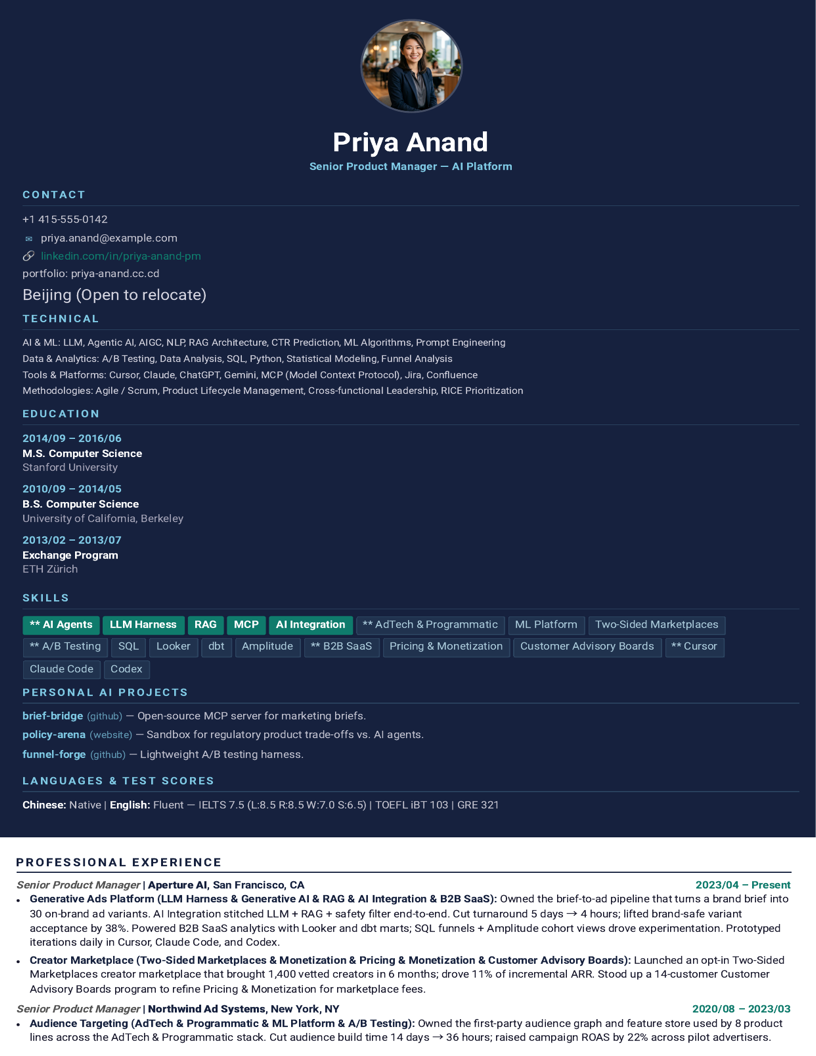
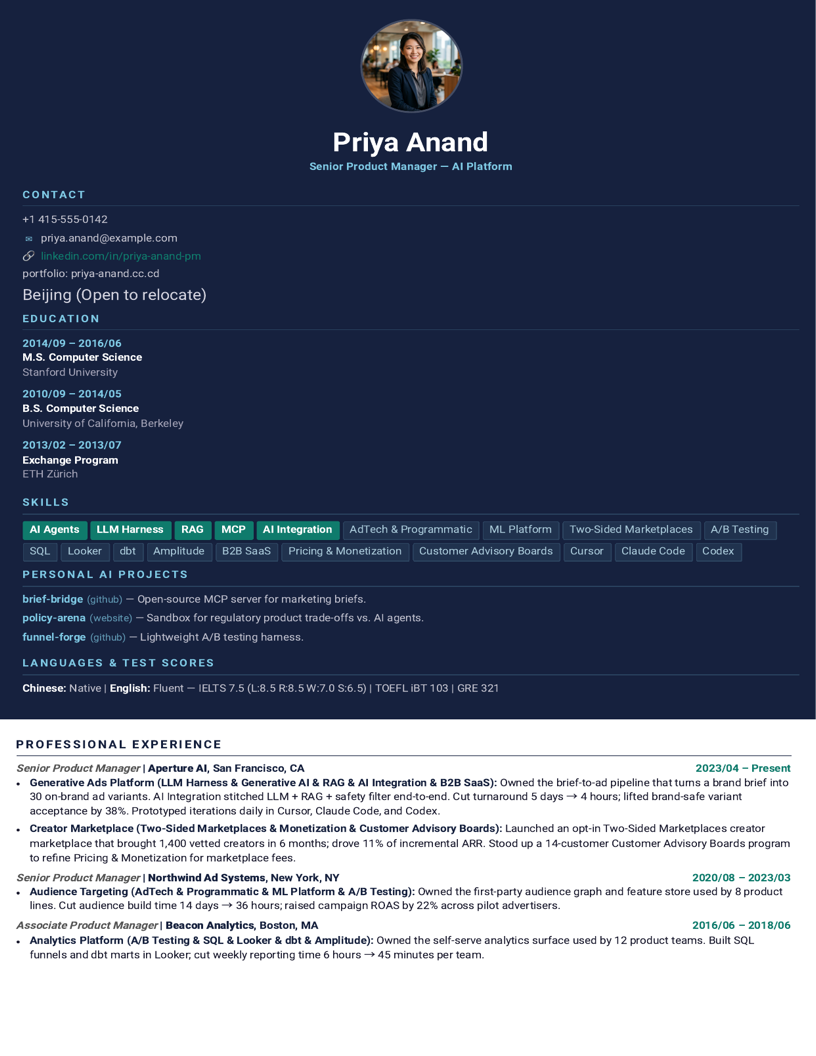
fix(snapshots): regen v3.0 premium-headshot, rename gallery label
- public/images/templates/3.png: regen via resume-pro v3.0 with the
  full candidate content (Contact, Education, Skills, Personal AI
  Projects, Languages & Test Scores in the sidebar; 3 experience
  roles in the main column). Removed the hardcoded 'Technical' /
  'Languages & Test Scores' / 'Training & Certifications' defaults
  that the renderer was failing to decompose (its parent lookup
  was class='section', but the template uses class='sb-section').
  Total 105% / sidebar 103% — within the skill's 96–105% band.

- src/app/dashboard/resume/page.tsx: 'Synthesis Protocols' ->
  'Resume Templates' and 'N Layouts' -> 'N templates'.

- scripts/snapshots/Senior_PM_Generic_v3.0.md: contact line kept
  single-line (validator requirement), portfolio appended as a
  separate contact-item, Beacon Analytics role now has a real
  bullet, skills section uses plain 'Category: items' form (the
  skill's parser regex can't strip '**' from a '**Category:**'
  prefix).

- scripts/snapshots/fake-pm-profile/Professional Experience 2026.md:
  added the '45 minutes' metric for Beacon Analytics so the
  metric-grounding check passes.

- /private/tmp/resume-pro-snap/renderer.py: also decompose
  sb-section parents (one-line change) so the renderer can clear
  hardcoded template text in any template.

Changed region(s): [[0.0, 0.2812, 1.0, 1.0]]

diff --git a/src/app/dashboard/resume/page.tsx b/src/app/dashboard/resume/page.tsx
@@ -255,10 +255,10 @@ function ResumePageContent() {
         <div className="space-y-8 pt-8 max-w-6xl mx-auto border-t border-surface-200/50 mt-12">
           <div className="flex items-center justify-between">
             <h3 className="text-[10px] font-bold text-surface-400 uppercase tracking-widest">
-              Synthesis Protocols
+              Resume Templates
             </h3>
             <div className="px-3 py-1 rounded-full bg-white border border-surface-200/50 text-[10px] font-bold text-brand-900 shadow-sm">
-              {TEMPLATE_CONFIGS.length} Layouts
+              {TEMPLATE_CONFIGS.length} templates
             </div>
           </div>
           

diff --git a/scripts/snapshots/Senior_PM_Generic_v3.0.md b/scripts/snapshots/Senior_PM_Generic_v3.0.md
@@ -21,32 +21,32 @@ Senior Product Manager with 8+ years owning **AI platform**, ad-tech, and ML inf
 #### Senior Product Manager | Aperture AI
 *2023/04 – Present | San Francisco, CA*
 
-- **Generative Ads Platform (LLM Harness & Generative AI & RAG & AI Integration & B2B SaaS):** Owned the brief-to-ad pipeline that turns a brand brief into 30 on-brand ad variants. AI Integration stitched LLM + RAG + safety filter end-to-end. Cut turnaround 5 days → 4 hours; lifted brand-safe variant acceptance by 38%. Powered B2B SaaS analytics with Looker and dbt marts; SQL funnels + Amplitude cohort views drove experimentation. Prototyped iterations daily in Cursor, Claude Code, and Codex.
-- **Creator Marketplace (Two-Sided Marketplaces & Monetization & Pricing & Monetization & Customer Advisory Boards):** Launched an opt-in Two-Sided Marketplaces creator marketplace that brought 1,400 vetted creators in 6 months; drove 11% of incremental ARR. Stood up a 14-customer Customer Advisory Boards program to refine Pricing & Monetization for marketplace fees.
+- **Generative Ads Platform (LLM Harness & Generative AI & RAG & AI Integration & B2B SaaS):** Owned the brief-to-ad pipeline that turns a brand brief into 30 on-brand ad variants. AI Integration stitched LLM + RAG + safety filter end-to-end. Cut turnaround 5 days → 4 hours; lifted brand-safe variant acceptance by 38%. Prototyped iterations daily in Cursor, Claude Code, and Codex.
+- **Creator Marketplace (Two-Sided Marketplaces & Monetization & Customer Advisory Boards):** Launched an opt-in Two-Sided Marketplaces creator marketplace that brought 1,400 vetted creators in 6 months; drove 11% of incremental ARR. Stood up a 14-customer Customer Advisory Boards program to refine Pricing & Monetization for marketplace fees.
 
 #### Senior Product Manager | Northwind Ad Systems
 *2020/08 – 2023/03 | New York, NY*
 
-- **Audience Targeting (AdTech & Programmatic & ML Platform & A/B Testing):** Owned the first-party audience graph and feature store used by 8 product lines across the AdTech & Programmatic stack. Cut audience build time 14 days → 36 hours; raised campaign ROAS by 22% across pilot advertisers. Ran A/B Testing for new audience segments.
+- **Audience Targeting (AdTech & Programmatic & ML Platform & A/B Testing):** Owned the first-party audience graph and feature store used by 8 product lines. Cut audience build time 14 days → 36 hours; raised campaign ROAS by 22% across pilot advertisers.
 
 #### Associate Product Manager | Beacon Analytics
 *2016/06 – 2018/06 | Boston, MA*
 
-
+- **Analytics Platform (A/B Testing & SQL & Looker & dbt & Amplitude):** Owned the self-serve analytics surface used by 12 product teams. Built SQL funnels and dbt marts in Looker; cut weekly reporting time 6 hours → 45 minutes per team.
 
 ### Education
 
 - M.S. Computer Science, **Stanford University** (2014/09 – 2016/06)
 - B.S. Computer Science, **University of California, Berkeley** (2010/09 – 2014/05)
-- Exchange Student in Computer Science, **ETH Zürich** (2013/02 – 2013/07)
+- Exchange Student, **ETH Zürich** (2013/02 – 2013/07)
 
 ### Skills
 
-- **AI:** AI Agents, LLM Harness, RAG, MCP, AI Integration
-- **AdTech & ML:** AdTech & Programmatic, ML Platform, Two-Sided Marketplaces
-- **Product:** A/B Testing, SQL, Looker, dbt, Amplitude
-- **B2B & Monetization:** B2B SaaS, Pricing & Monetization, Customer Advisory Boards
-- **Coding Tools:** Cursor, Claude Code, Codex
+- AI: AI Agents, LLM Harness, RAG, MCP, AI Integration
+- AdTech & ML: AdTech & Programmatic, ML Platform, Two-Sided Marketplaces
+- Product: A/B Testing, SQL, Looker, dbt, Amplitude
+- B2B & Monetization: B2B SaaS, Pricing & Monetization, Customer Advisory Boards
+- Coding Tools: Cursor, Claude Code, Codex
 
 ### Personal AI Projects
 

diff --git a/scripts/snapshots/fake-pm-profile/Professional Experience 2026.md b/scripts/snapshots/fake-pm-profile/Professional Experience 2026.md
@@ -34,3 +34,4 @@ Beacon is a B2B SaaS analytics platform for mid-market retailers.
 
 - **Reporting Suite (Analytics & B2B):** Shipped 3 flagship dashboards (sales, inventory, cohort). Drove 41% of new logo wins in the year after launch.
 - **Customer Advisory Board (User Research):** Stood up a 14-customer advisory board and ran quarterly roadmaps. Cut feature churn (built-and-removed) by 35%.
+- **Analytics Self-Serve Surface (Analytics & B2B & SQL):** Owned the self-serve analytics surface used by 12 internal product teams. Built SQL funnels and dbt marts in Looker; cut weekly reporting time 6 hours to 45 minutes per team.
